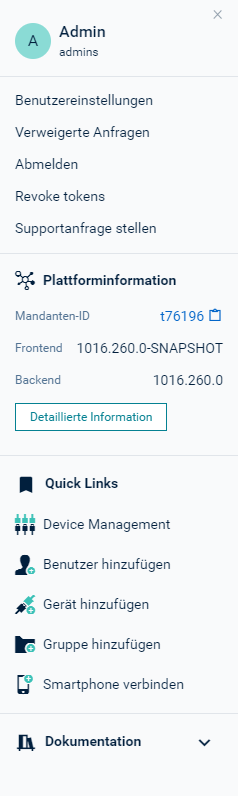
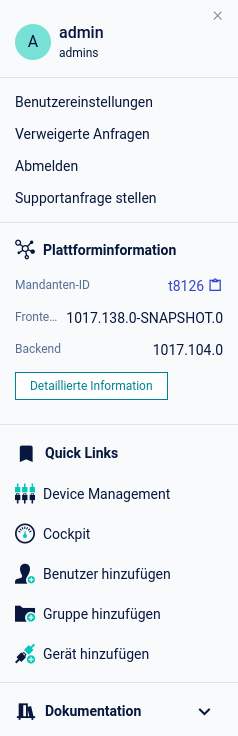
MTM-51772 revoke tokens to log out users

diff --git a/content/users-guide/administration-bundle/managing-users.md b/content/users-guide/administration-bundle/managing-users.md
@@ -181,12 +181,14 @@ Click the menu icon at the right of the respective row and then click **Delete**
 You need a role with user management permission to perform this option.
 {{< /c8y-admon-info >}}
 
-### To revoke user tokens
+### To log out all users
 
 In the event of a security incident involving the session tokens of your tenant's users, you can invalidate any tokens currently in use.
 
-To revoke all session tokens click **Revoke tokens**  at the right of the top menu bar. Revoking all tokens logs out all users logged in via "OAI-Secure" or "Single sign-on redirect". Note that JWT tokens retrieved by your devices will also be revoked.
+To log out all users click **Log out all users**  at the right of the top menu bar. This will log out all users logged with "OAI-Secure" or "Single sign-on redirect". JWT tokens retrieved by all devices in the current tenant will also be invalidated.
+
+Note that, if the "Basic Authentication" is used, the users logged with base64 token will logged out.
 
 {{< c8y-admon-req >}}
-To revoke tokens, you must have ADMIN permission for the permission type "User management".
+To log out all users, you must have ADMIN permission for the permission type "User management".
 {{< /c8y-admon-req >}}

diff --git a/content/users-guide/getting-started-bundle/user-settings.md b/content/users-guide/getting-started-bundle/user-settings.md
@@ -36,14 +36,6 @@ At the top you find the following items:
 <td style="text-align:left">Logout</td>
 <td style="text-align:left">Logs you out from your {{< product-c8y-iot >}} account. </td>
 </tr>
-</tr>
-<tr>
-<td style="text-align:left">Revoke tokens</td>
-<td style="text-align:left">Revoking tokens logs out all users currently logged in via "OAI-Secure" or "Single sign-on redirect". Note that JWT tokens retrieved by your devices will also be revoked.<br>
-<br>
-To revoke tokens, you must have ADMIN permission for the permission type "User management".  
-</td>
-</tr>
 <tr>
 <td style="text-align:left">Request support</td>
 <td style="text-align:left">Redirects you to the <a href="{{< link-sag-portal >}}" class="no-ajaxy">{{< company-sag >}} {{< sag-portal >}}</a>. </td>
